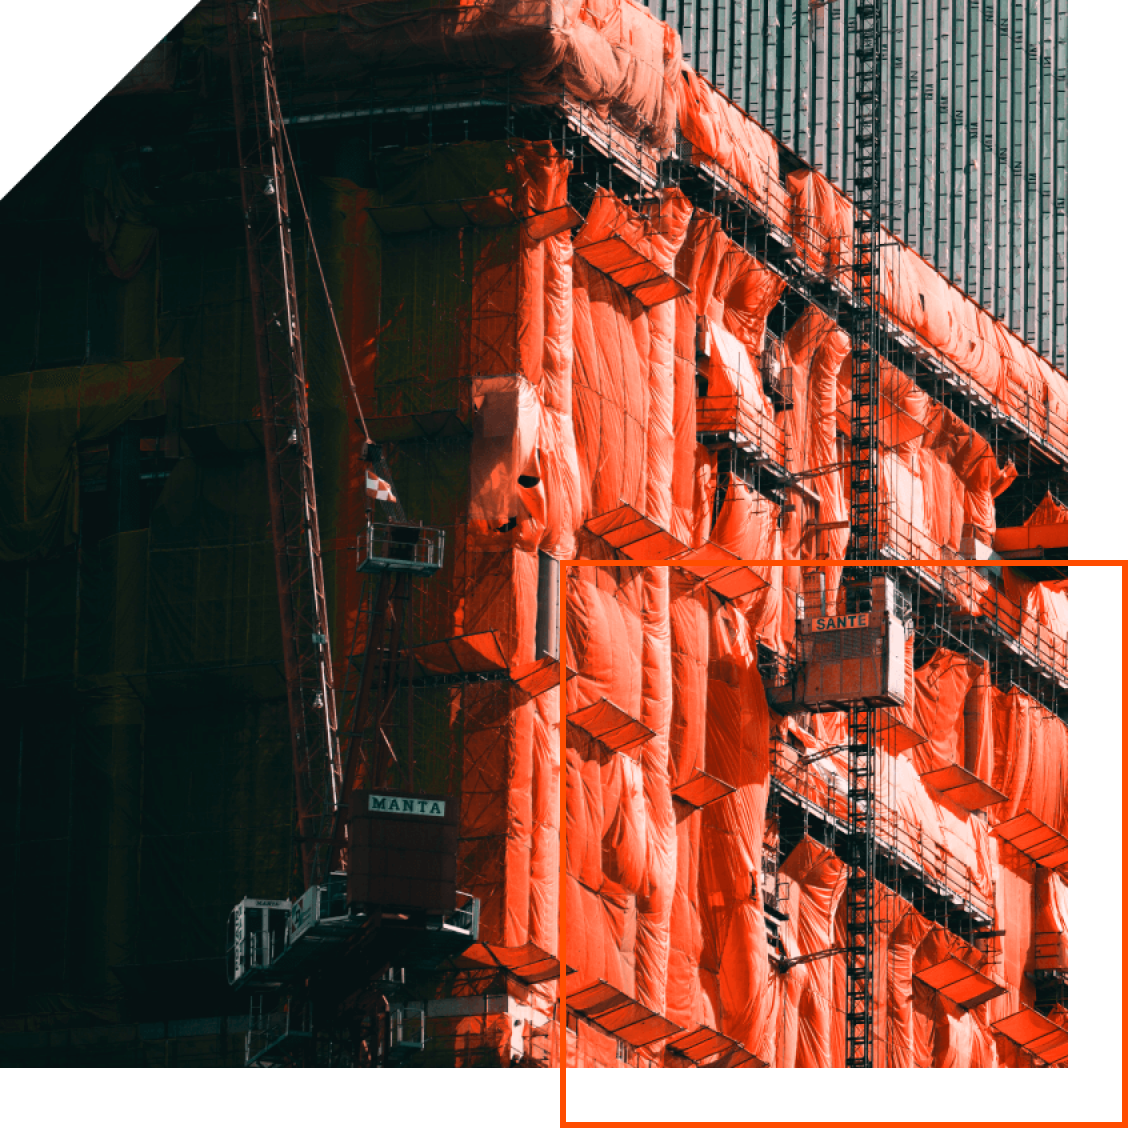
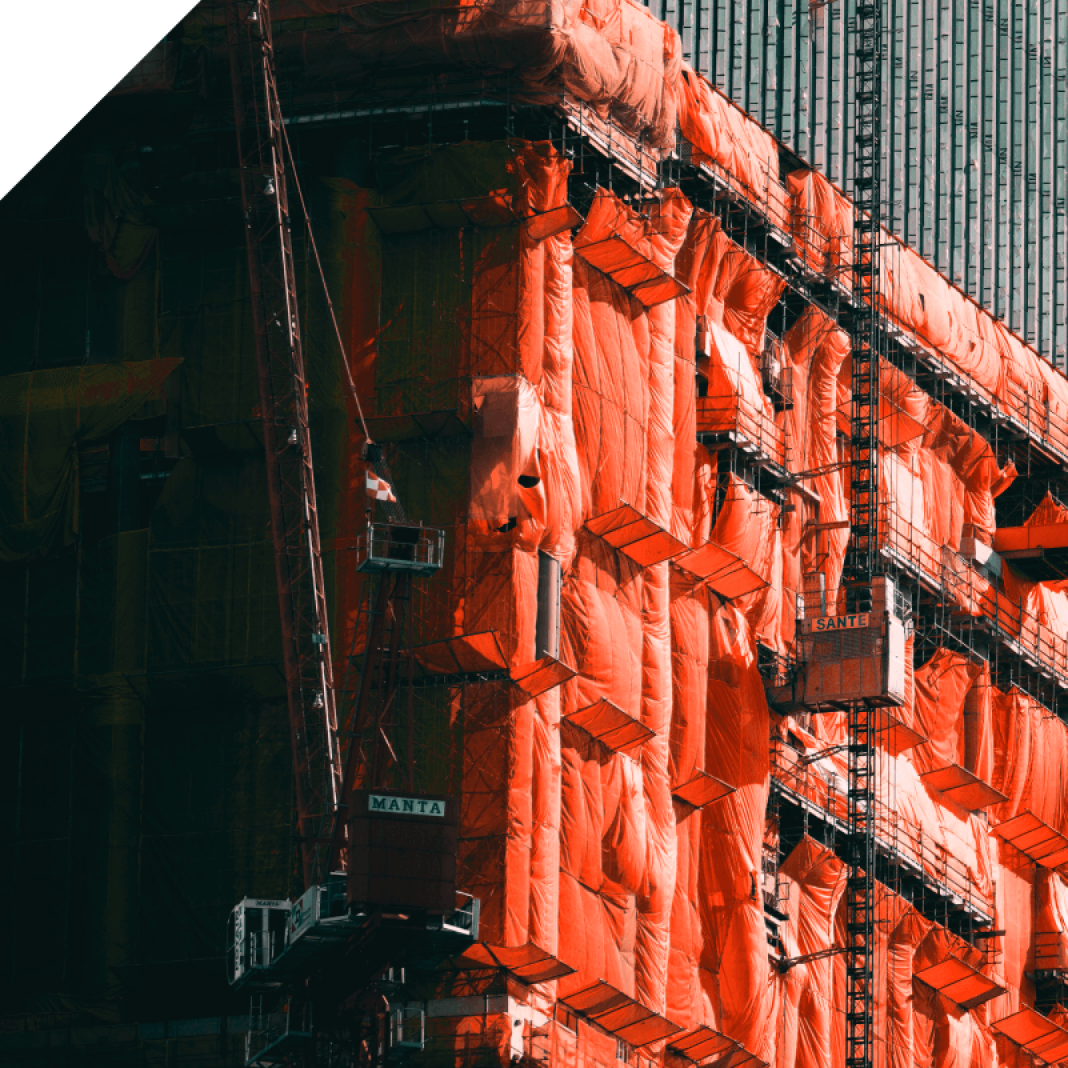
Features component added

diff --git a/INF 316/Assignment3/index.html b/INF 316/Assignment3/index.html
@@ -202,13 +202,21 @@
         </div>
       </div>
     </section>
+    <section style="position: relative; width: 100%">
+      <div class="bg__image-pos">
+        <img class="bg__image" src="./assets/cta_features.png" />
+      </div>
+    </section>
     <section class="features">
       <div class="container features__content">
         <div class="feature">
-          <img
-            src="./assets/feature1.png"
-            alt="Feature 1"
-            class="feature__image" />
+          <div class="feature__inner-left">
+            <img
+              src="./assets/feature1.png"
+              alt="Feature 1"
+              class="feature__image" />
+          </div>
+
           <div class="feature__content">
             <h2 class="section-name">/Why Choose Us</h2>
             <h3 class="feature__title">
@@ -221,77 +229,23 @@
             </p>
             <ul class="feature__list">
               <li>
-                <svg
-                  width="16"
-                  height="16"
-                  viewBox="0 0 16 16"
-                  fill="none"
-                  xmlns="http://www.w3.org/2000/svg">
-                  <g clip-path="url(#clip0_2_531)">
-                    <path
-                      d="M1.43982 8.93693L5.18846 12.6856L14.5601 3.31396"
-                      stroke="#FF4D01"
-                      stroke-width="2.5"
-                      stroke-linecap="square" />
-                  </g>
-                  <defs>
-                    <clipPath id="clip0_2_531">
-                      <rect width="16" height="16" fill="white" />
-                    </clipPath>
-                  </defs>
-                </svg>
-                Over 15 years of experience
+                <img src="./assets/done.png" />Over 15 years of experience
               </li>
               <li>
-                <svg
-                  width="16"
-                  height="16"
-                  viewBox="0 0 16 16"
-                  fill="none"
-                  xmlns="http://www.w3.org/2000/svg">
-                  <g clip-path="url(#clip0_2_531)">
-                    <path
-                      d="M1.43982 8.93693L5.18846 12.6856L14.5601 3.31396"
-                      stroke="#FF4D01"
-                      stroke-width="2.5"
-                      stroke-linecap="square" />
-                  </g>
-                  <defs>
-                    <clipPath id="clip0_2_531">
-                      <rect width="16" height="16" fill="white" />
-                    </clipPath>
-                  </defs></svg
-                >200+ successfully executed projects
+                <img src="./assets/done.png" />200+ successfully executed
+                projects
               </li>
-              <li>
-                <svg
-                  width="16"
-                  height="16"
-                  viewBox="0 0 16 16"
-                  fill="none"
-                  xmlns="http://www.w3.org/2000/svg">
-                  <g clip-path="url(#clip0_2_531)">
-                    <path
-                      d="M1.43982 8.93693L5.18846 12.6856L14.5601 3.31396"
-                      stroke="#FF4D01"
-                      stroke-width="2.5"
-                      stroke-linecap="square" />
-                  </g>
-                  <defs>
-                    <clipPath id="clip0_2_531">
-                      <rect width="16" height="16" fill="white" />
-                    </clipPath>
-                  </defs></svg
-                >Exceptional work quality
-              </li>
+              <li><img src="./assets/done.png" />Exceptional work quality</li>
             </ul>
           </div>
         </div>
         <div class="feature feature__reversed">
-          <img
-            src="./assets/feature2.png"
-            alt="Feature 2"
-            class="feature__image" />
+          <div class="feature__inner-right">
+            <img
+              src="./assets/feature2.png"
+              alt="Feature 2"
+              class="feature__image" />
+          </div>
           <div class="feature__content">
             <h3 class="feature__title">
               We help you build on your past and prepare for the future
@@ -302,8 +256,18 @@
               elementum quis lorem posuere dignissim scelerisque aliquam.
             </p>
             <div class="feature__stats">
-              <div><strong>+350</strong> Successful Projects</div>
-              <div><strong>100%</strong> Client Satisfaction</div>
+              <div>
+                <span class="feature__title"
+                  ><span class="orange">+</span>350</span
+                >
+                <p class="feature__description">Successful Projects</p>
+              </div>
+              <div>
+                <span class="feature__title"
+                  >100<span class="orange">%</span></span
+                >
+                <p class="feature__description">Client Satisfaction</p>
+              </div>
             </div>
           </div>
         </div>

diff --git a/INF 316/Assignment3/styles.css b/INF 316/Assignment3/styles.css
@@ -364,37 +364,91 @@ button {
   gap: 28px;
 }
 
+.bg__image {
+  width: 880px;
+  height: auto; /* Ensures the image covers the section correctly */
+  position: relative;
+  z-index: 1;
+}
+
 /* Features Section */
 .features {
-  width: 100%;
-  margin: 300px 0;
+  position: relative;
+  display: flex;
+  align-items: center;
+}
+
+.bg__image-pos {
+  position: absolute;
+  left: 50%;
+  transform: translate(-50%, 0%);
+}
+
+.feature__inner-left {
+  position: relative;
+  width: 534px;
+  height: 534px;
+}
+
+.feature__inner-right {
+  position: relative;
+  width: 534px;
+  height: 534px;
+}
+
+.feature__inner-right::after {
+  content: "";
+  width: 250px;
+  height: 250px;
+  border: 3px solid #ff4d01;
+  background: transparent;
+  bottom: -26px;
+  position: absolute;
+  right: -26px;
+  display: block;
+}
+
+.feature__inner-left::before {
+  content: "";
+  width: 250px;
+  height: 250px;
+  border: 3px solid #ff4d01;
+  background: transparent;
+  top: -26px;
+  position: absolute;
+  left: -26px;
+  display: block;
 }
 
 .features__content {
   display: flex;
   flex-direction: column;
   align-items: center;
-  gap: 50px;
+  gap: 100px;
   padding: 20px;
+  margin-top: 300px;
+  margin-bottom: 300px;
 }
 
 .feature {
   display: flex;
-  align-items: flex-start;
+  align-items: center;
   gap: 82px;
 }
 
 .feature__reversed {
   flex-direction: row-reverse;
+  padding-left: 24px;
 }
 
 .feature__image {
-  width: 40%; /* Adjust based on your layout */
-  height: auto;
-  object-fit: cover; /* Ensures the image covers the area well */
+  object-fit: cover;
+  width: 534px;
+  height: 534px;
 }
 
 .feature__content {
+  /* height: max-content; */
   flex-grow: 1;
 }
 
@@ -422,14 +476,26 @@ button {
   text-align: left;
   display: flex;
   flex-direction: column;
+  justify-content: center;
   gap: 20px;
   color: #333;
 }
 
-.feature__stats div {
-  margin-bottom: 5px; /* Spacing between stats */
+.feature__list img {
+  width: 16px;
+  height: 16px;
+  margin-right: 10px;
 }
 
-.feature__stats strong {
-  color: #ff4d01; /* Highlight color for numbers */
+.feature__stats {
+  display: flex;
+  gap: 40px;
+}
+
+.feature__stats div {
+  text-align: center;
+}
+
+.orange {
+  color: #ff4d01;
 }
